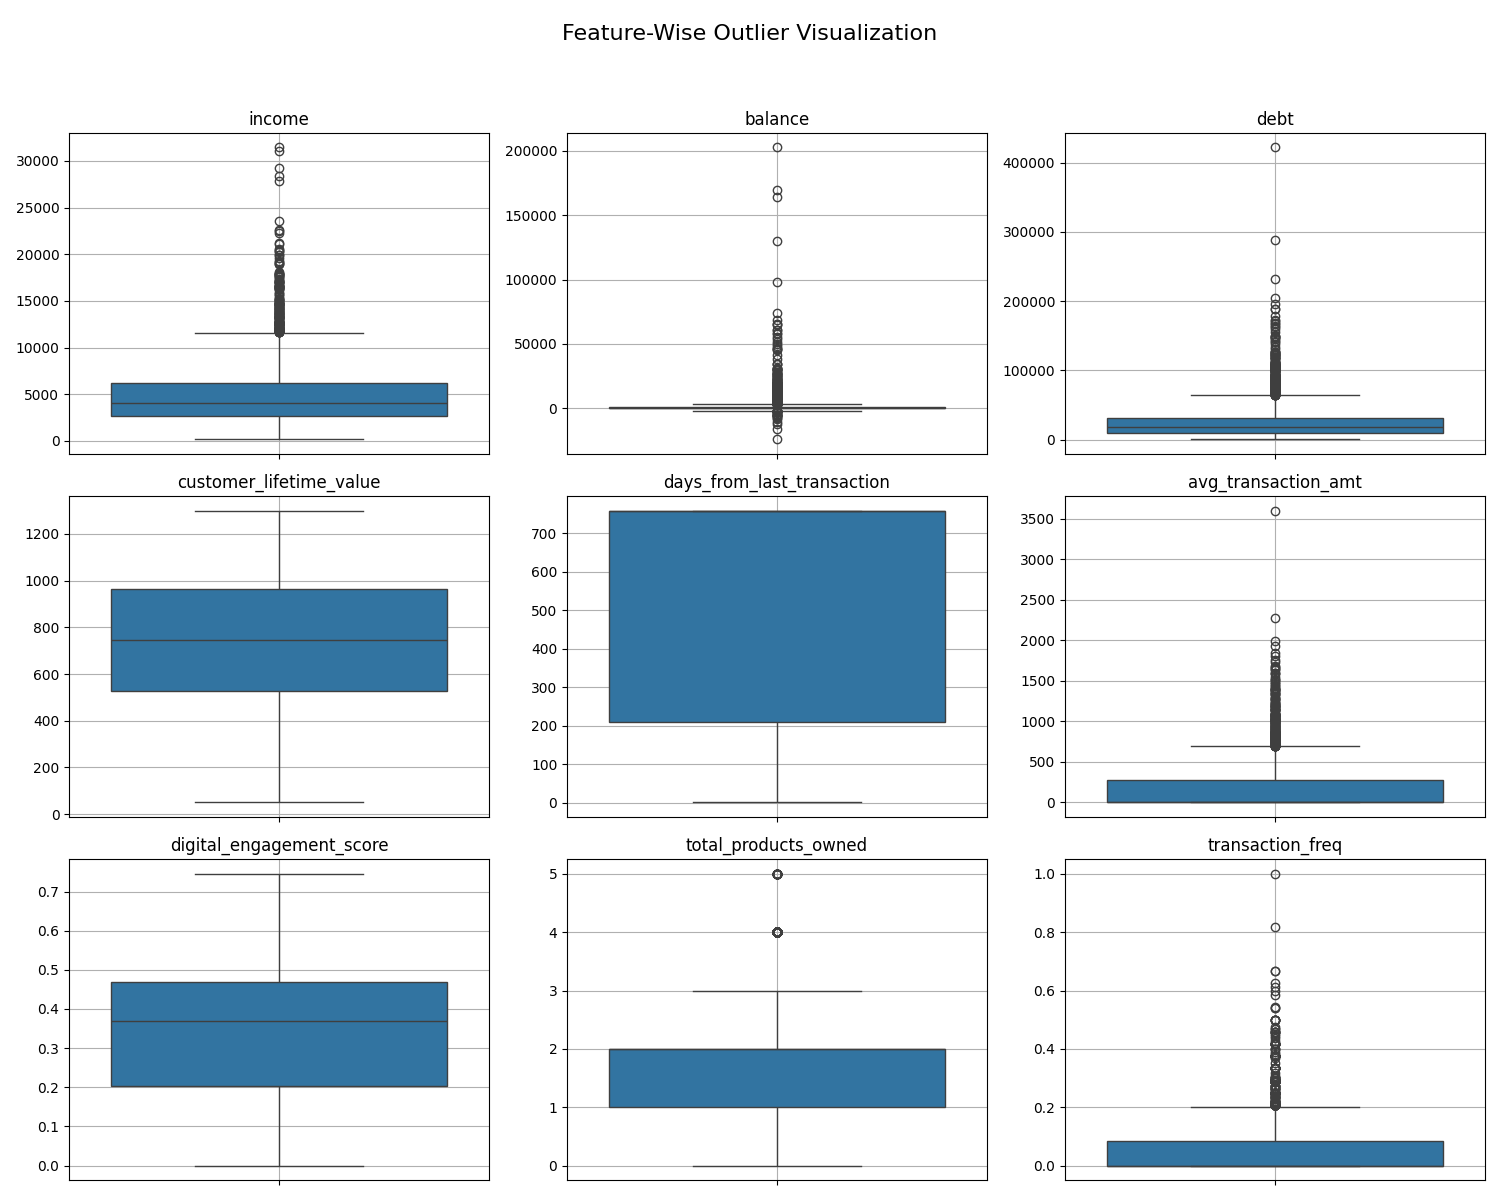
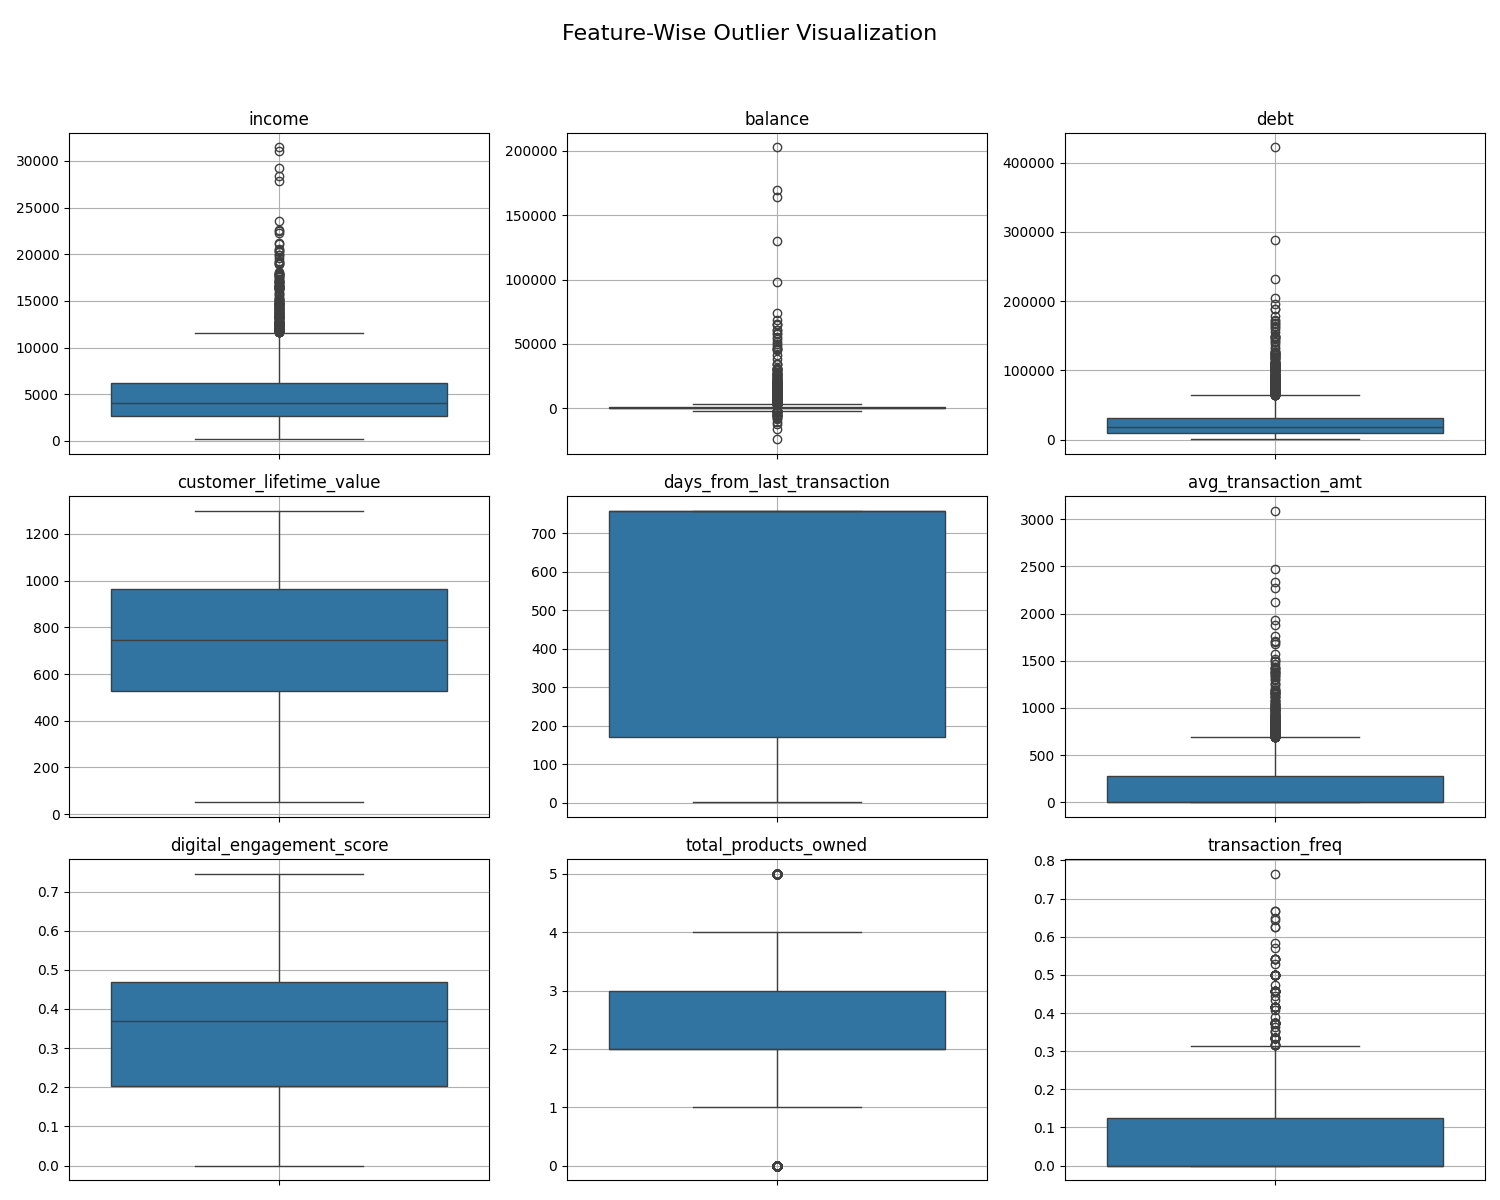
Deciding on best parameter for outlier handling

diff --git a/customer_segmentation/scripts/segmentation.py b/customer_segmentation/scripts/segmentation.py
@@ -160,11 +160,13 @@ robust_features = ["income", "balance", "debt", "customer_lifetime_value",  "avg
 # Heavily skewed → higher winsorization
 heavy_outliers = ["income", "balance", "debt"]
 for col in heavy_outliers:
-    df[col] = pd.Series(winsorize(df[col].to_numpy(), limits=[0.05, 0.15])).astype(float)
+    df[col] = pd.Series(winsorize(df[col].to_numpy(), limits=[0.05, 0.1])).astype(float)
 # Moderate outliers → light winsorization
 moderate_outliers = ["customer_lifetime_value", "avg_transaction_amt", "transaction_freq"]
 for col in moderate_outliers:
     df[col] = pd.Series(winsorize(df[col].to_numpy(), limits=[0.0, 0.01])).astype(float)
+
+
 # Features that need Standard scaling (normally distributed)
 standard_features = ["days_from_last_transaction", "digital_engagement_score", "total_products_owned"]
 # Apply RobustScaler
